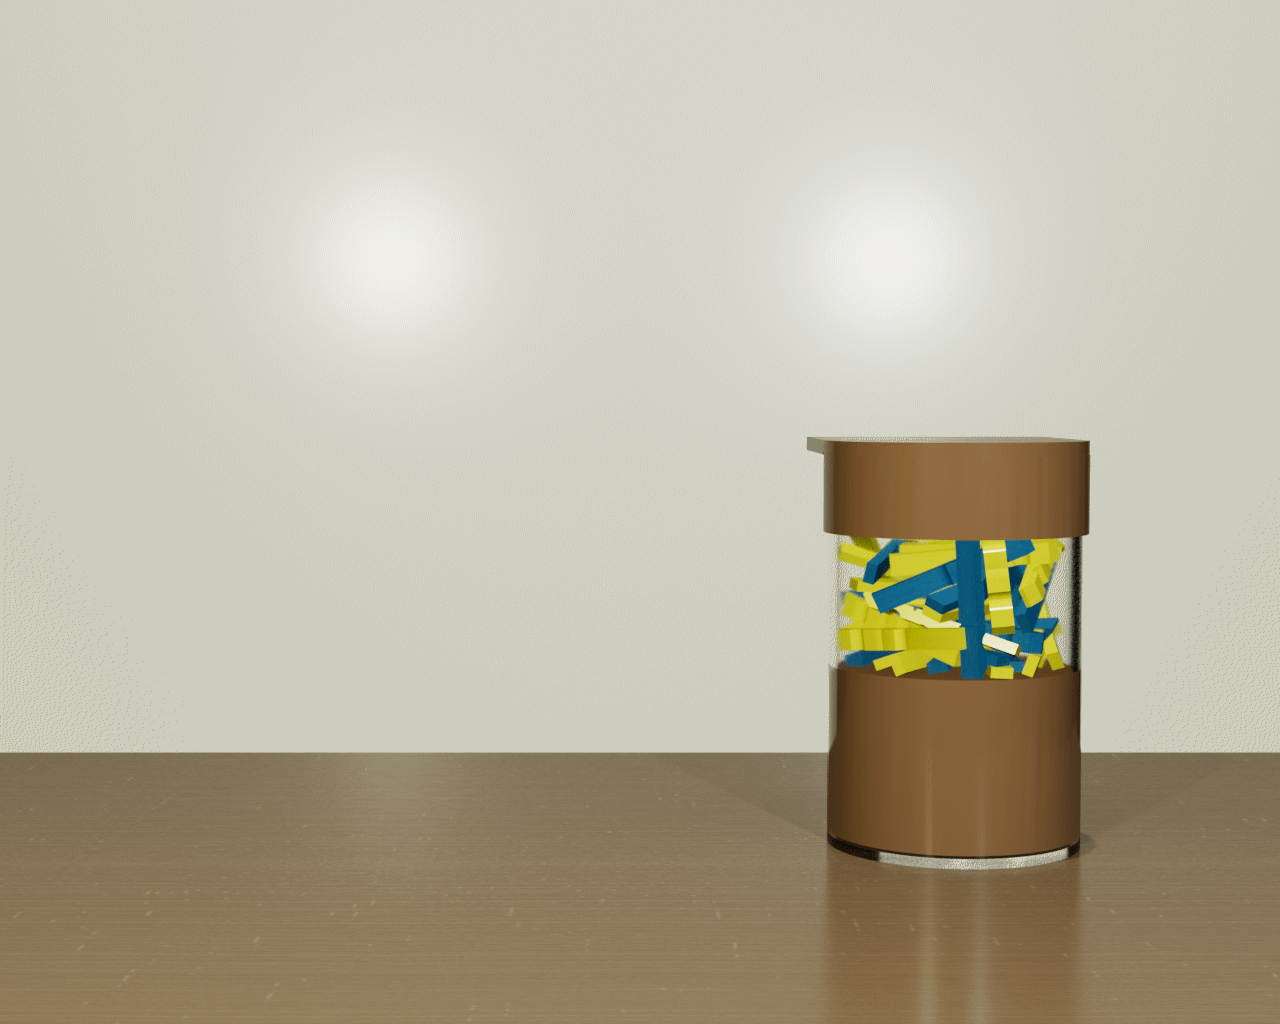
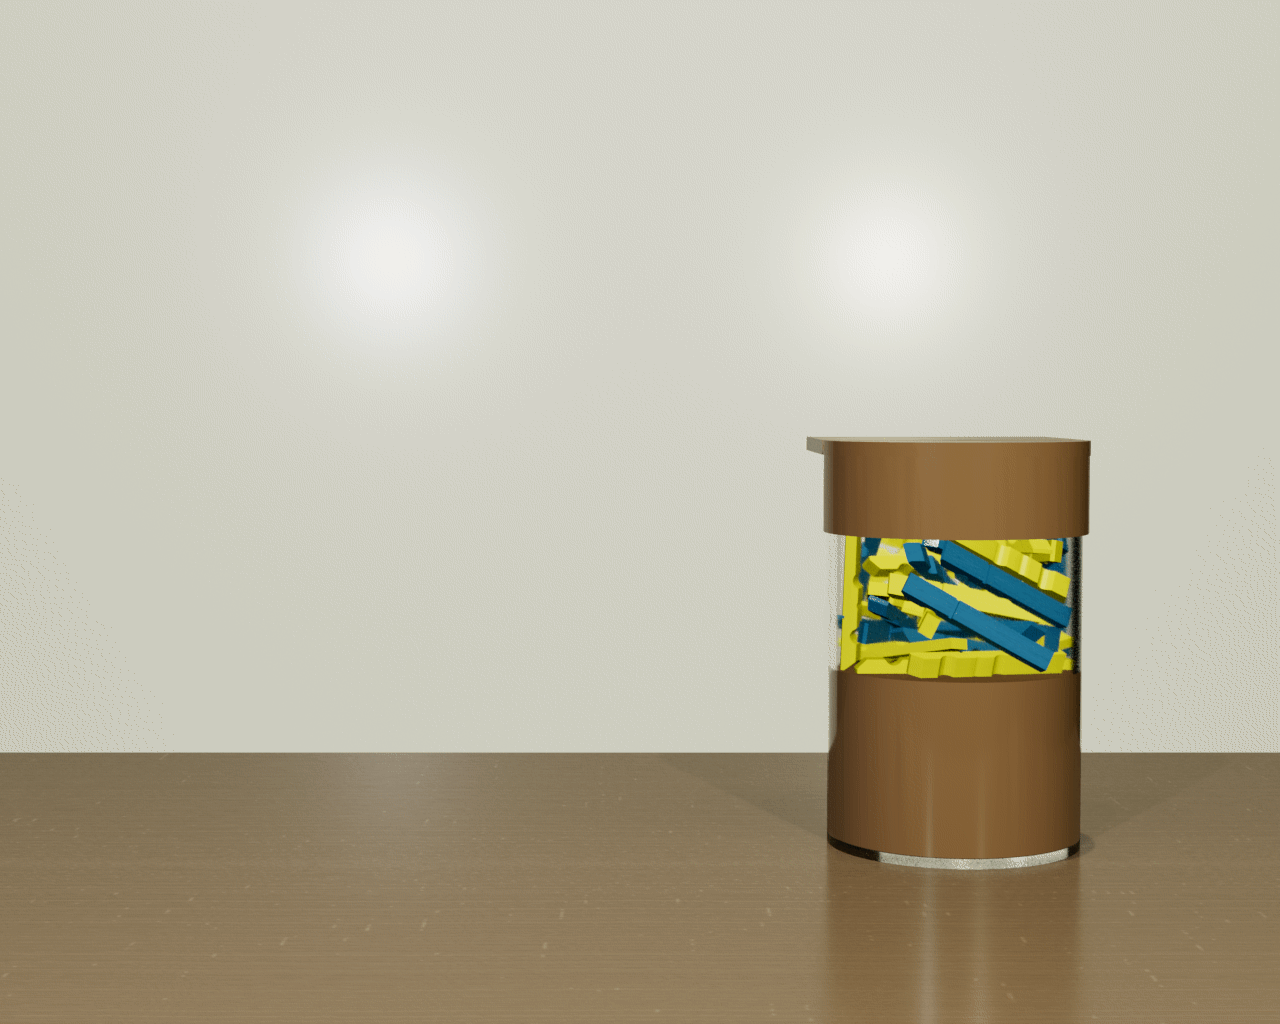
Weber's law images changed

diff --git a/user/select_task.py b/user/select_task.py
@@ -599,6 +599,7 @@ def select_task(df, subject):
 
                         stage = 4
                         task = 'Probability_WebersLaw'
+                        #block = 12  # This is the number of trials one conditions will remain for
                         block = 3  # This is the number of trials one conditions will remain for
                         conditions = []  # Takes the conditions from select task file.
                         completed_conditions = []  # To store completed conditions
@@ -629,7 +630,7 @@ def select_task(df, subject):
             stim_trial_counter = last_row['stim_trial_counter']
 
             if stage == 5:
-                task = 'Probability_WebersLaw_Training'
+                task = 'Probability_WL_Training'
                 # Weber's Law:
                 stage = 5
                 block = 0
@@ -649,7 +650,7 @@ def select_task(df, subject):
                 current_ror = 16
                 trial_counter_ror = 0
 
-                message = 'PI: Training complete, Moving to Webers law.'
+                message = 'PI: Probability_WebersLaw completes, Moving to Webers law Training.'
                 print(f'{message}')
                 try:
                     telegram_bot.alarm_completed_criteria(task, my_subject)
@@ -663,7 +664,7 @@ def select_task(df, subject):
             trial_end_criteria = 1000
 
             if my_subject == 'm2':
-                trial_criteria = 2
+                trial_criteria = 3
                 accuracy_criteria = 0.5
                 trial_end_criteria = 10
 
@@ -728,7 +729,7 @@ def select_task(df, subject):
                                 print("All RORs are completed. Task ends.")
                                 current_ror = 0
                                 stage = 6
-                                task == 'Water_Filler'
+                                task = 'Water_Filler'
                                 message = 'PI: Webers law Training completed'
                                 print(f'{message}')
                                 try:
@@ -751,7 +752,6 @@ def select_task(df, subject):
                                 pass
 
     elif task == 'Water_Filler':
-        task = 'Water_Filler'
         print("rat drank water")
         # # variables by default
         # stage = 5

diff --git a/user/functions.py b/user/functions.py
@@ -560,10 +560,10 @@ def function35():
         if image_path and "both" in image_path:
             image_path_replaced = image_path.replace("both", "correct")
             # Update the image path for drawing
-            if last_function_called in [31, 41, 51]:
+            if last_function_called in [31, 41, 43, 45, 51, 61]:
                 image_jar_left.image = image_path_replaced
                 image_jar_left.pos = (settings.CENTRE_SCREEN[0], settings.CENTRE_SCREEN[1])
-            elif last_function_called in [32, 42, 52]:
+            elif last_function_called in [32, 42, 44, 46, 52, 62]:
                 image_jar_right.image = image_path_replaced
                 image_jar_right.pos = (settings.CENTRE_SCREEN[0], settings.CENTRE_SCREEN[1])
         print(f"Correct image path: {image_path_replaced}")
@@ -572,10 +572,10 @@ def loop35(timing):
     # Check which function (31 or 32) was last called and display the corresponding image:
     stage = utils.task.stage
     if stage != 1:
-        if last_function_called in [31, 41, 51]:
+        if last_function_called in [31, 41, 43, 45, 51, 61]:
             #print("Last function called: ", last_function_called)
             image_jar_left.draw()
-        elif last_function_called in [32, 42, 52]:
+        elif last_function_called in [32, 42, 44, 46, 52, 62]:
             #print("Last function called: ", last_function_called)
             image_jar_right.draw()
         window.flip()
@@ -597,10 +597,10 @@ def function36():
         if image_path and "both" in image_path:
             image_path_replaced = image_path.replace("both", "incorrect")
             # Update the image path for drawing
-            if last_function_called in [31, 41, 51]:
+            if last_function_called in [31, 41, 43, 45, 51, 61]:
                 image_jar_left.image = image_path_replaced
                 image_jar_left.pos = (settings.CENTRE_SCREEN[0], settings.CENTRE_SCREEN[1])
-            elif last_function_called in [32, 42, 52]:
+            elif last_function_called in [32, 42, 44, 46, 52, 62]:
                 image_jar_right.image = image_path_replaced
                 image_jar_right.pos = (settings.CENTRE_SCREEN[0], settings.CENTRE_SCREEN[1])
         print(f"Incorrect image path: {image_path_replaced}")

diff --git a/tasks/Probability_WL_Training.py b/tasks/Probability_WL_Training.py
@@ -41,7 +41,7 @@ class Probability_WL_Training(Task):
         self.duration_tired = 1800
         self.trials_tired = 5
         self.tired = False
-        self.stage = 4
+        self.stage = 5
         self.substage = 0
         self.response_duration = 60
         self.image_display = 3        #Number of seconds the image will display after correct and incorrect
